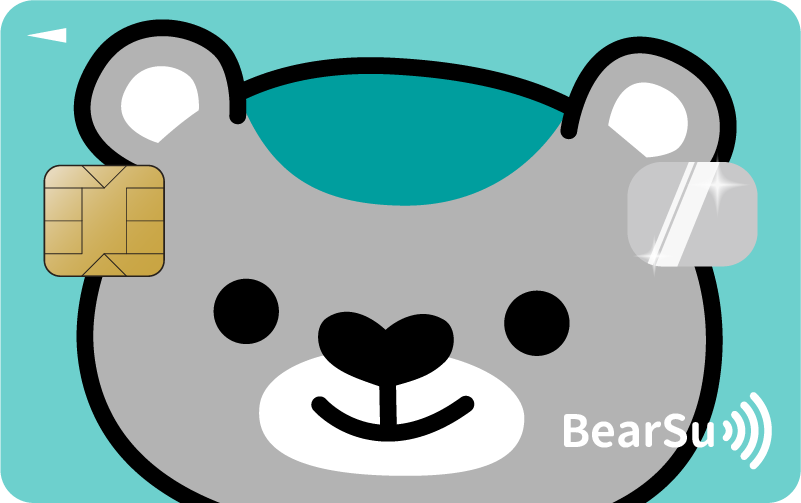
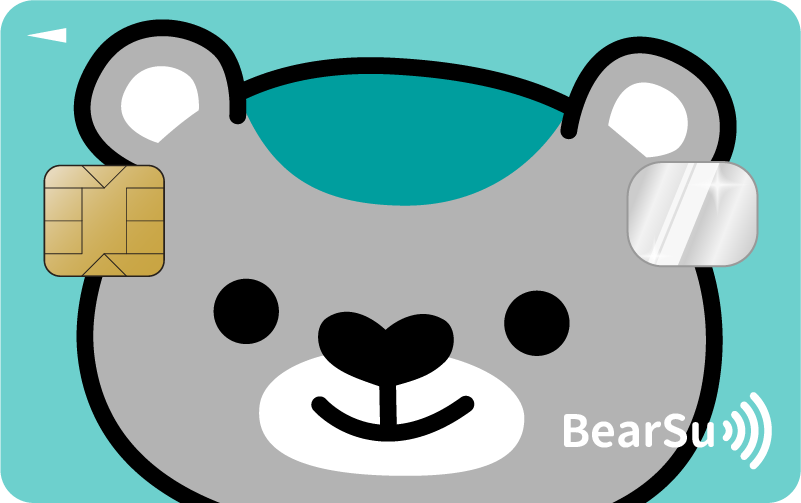
autotab

Changed region(s): [[0.7803, 0.2982, 0.9675, 0.5368]]

diff --git a/shopping_credit_card.html b/shopping_credit_card.html
@@ -214,8 +214,8 @@
             }
 
             .course_card p {
-            margin-bottom: 0px;
-        }
+                margin-bottom: 0px;
+            }
         }
 
         .total {
@@ -366,7 +366,7 @@
         .camera {
             width: 308px;
             height: 193px;
-            cursor:pointer ;
+            cursor: pointer;
         }
 
         .card_wrap {
@@ -424,8 +424,8 @@
 
         .auto_last_number_wrap {
             position: absolute;
-            left: 6%;
-            bottom: 8%;
+            left: 75%;
+            top: 38%;
         }
 
         @media screen and (min-width:768px) {
@@ -456,6 +456,11 @@
             .card_wrap {
                 width: 445px;
                 height: 279px;
+            }
+
+            .auto_last_number_wrap {
+                left: 75%;
+                top: 41.5%;
             }
         }
 
@@ -676,13 +681,13 @@
                                     <h3>信用卡卡號</h3>
                                 </label><br>
                                 <div class="input_wrap d-flex align-items-center w-100">
-                                    <input type="text" maxlength="4" name="card_number_1" id="card_number_1">
+                                    <input type="text" maxlength="4" name="card_number_1" id="card_number_1" class="autotab">
                                     <i class="fa-solid fa-minus"></i>
-                                    <input type="text" maxlength="4" name="card_number_2" id="card_number_2">
+                                    <input type="text" maxlength="4" name="card_number_2" id="card_number_2" class="autotab">
                                     <i class="fa-solid fa-minus"></i>
-                                    <input type="text" maxlength="4" name="card_number_3" id="card_number_3">
+                                    <input type="text" maxlength="4" name="card_number_3" id="card_number_3" class="autotab">
                                     <i class="fa-solid fa-minus"></i>
-                                    <input type="text" maxlength="4" name="card_number_4" id="card_number_4">
+                                    <input type="text" maxlength="4" name="card_number_4" id="card_number_4" class="autotab">
                                 </div>
                             </div>
                             <div class="effective_date">
@@ -743,7 +748,7 @@
                                     </div>
                                 </div>
                                 <div class="card_back card">
-                                    <img src="images/mascot_03.png" alt="" class="">
+                                    <img src="images/mascot_08.png" alt="" class="">
                                     <div class="auto_last_number_wrap">
                                         <input id="auto_last_number" type="text" />
                                     </div>
@@ -850,6 +855,24 @@
         $("#card_number_1,#card_number_2,#card_number_3,#card_number_4,#year,#month").click("beforeinput", function () {
             $('.card_wrap').css('transform', 'rotateY(0deg)');
         });
+
+        //輸入想要跳下一格的class名稱
+        var tablist = ["autotab"];
+
+        //特殊功能鍵，防止修改時按了ctrl shift alt、方向鍵、del之類的被跳到下一格
+        var functionkey = [8, 9, 16, 17, 18, 20, 33, 34, 35, 36, 37, 38, 39, 40, 45, 46, 93, 144];
+        tablist.forEach(function (element) {
+            $("." + element).on("keydown", function (event) {
+                //next
+                if ($(this).attr("maxLength") == $(this).val().length && (functionkey.indexOf(event.keyCode) == -1))
+                    $(this).nextAll("." + element).first().focus();
+                //prev
+                if ($(this).val().length == 0 && event.keyCode == 8) {
+                    $(this).prevAll("." + element).first().focus();
+                }
+            });
+        });
+
     </script>
 </body>
 
